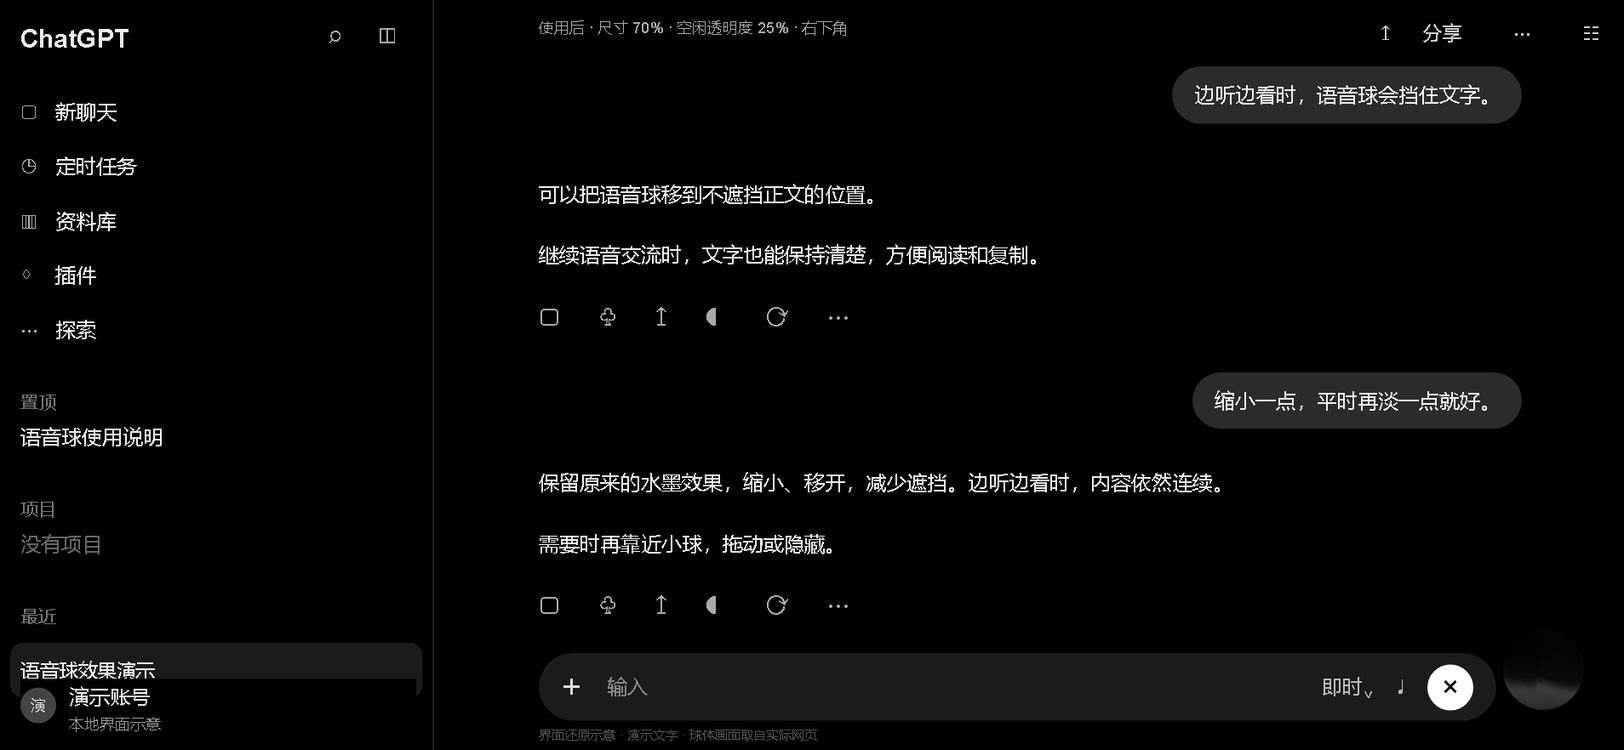
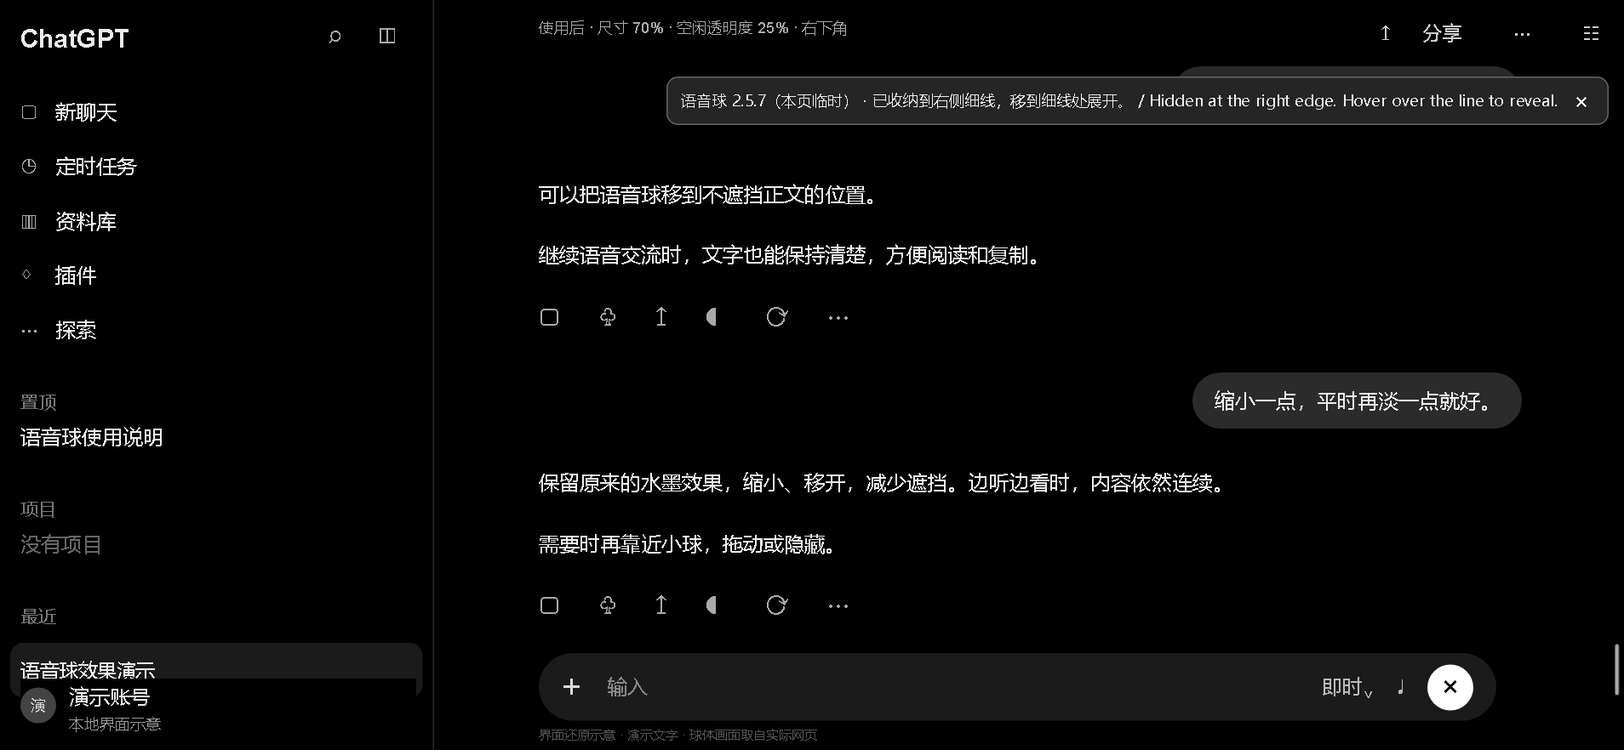
Release v2.5.7: edge docking, hover reveal and bilingual guidance
Replace the eye with a draggable monochrome ring. Automatically tuck the orb at the nearest side; reveal from the edge line and show Chinese/English directional guidance. Preserve scaling, opacity, position storage and shortcuts. Update README and demonstration screenshots. Validated using ScriptCat 1.4.0 in isolated Edge with simulated ChatGPT DOM.

Changed region(s): [[0.402, 0.0918, 0.9895, 0.1837], [0.9277, 0.8878, 0.9895, 0.949], [0.9895, 0.8571, 1.0, 0.9184]]

diff --git a/chatgpt-voice-orb.user.js b/chatgpt-voice-orb.user.js
@@ -1,7 +1,7 @@
 // ==UserScript==
 // @name         ChatGPT 简约语音球
 // @namespace    local.chatgpt.voice-helper
-// @version      2.5.3
+// @version      2.5.7
 // @description  简约语音球：缩小、右下角、空闲透明、拖动记忆、快捷键隐藏。
 // @match        https://chatgpt.com/*
 // @match        https://chat.openai.com/*
@@ -17,7 +17,7 @@
   'use strict';
 
   const SCALE = 0.7;
-  const VERSION = '2.5.3';
+  const VERSION = '2.5.7';
   const IDLE_OPACITY = 0.25;
   const MARGIN = 24;
   const SELECTOR = '[data-testid="avatar-overlay-voice-orb"]';
@@ -31,6 +31,7 @@
 
   let nx = fraction(read('voice-v2-x', 1));
   let ny = fraction(read('voice-v2-y', 1));
+  let dockTimer=0, docked=false;
   let hidden = false, hovered = false, dragging = false;
   let target = null, original = new Map();
   let tx = 0, ty = 0, factorX = 1, factorY = 1, frame = 0;
@@ -54,15 +55,42 @@
     b.style.cssText = 'appearance:none;border:1px solid #8886;border-radius:7px;background:#252525;color:white;padding:5px 8px;font:12px sans-serif;cursor:pointer;line-height:18px;';
     panel.appendChild(b); return b;
   }
-  const grip = button('⠿', '拖动语音球；位置自动保存');
+  const grip = document.createElement('div');
+  grip.title = '按住球体拖动；位置自动保存';
+  grip.style.cssText = 'position:fixed;z-index:2147483601;display:none;border-radius:50%;clip-path:ellipse(50% 50% at 50% 50%);background:transparent;user-select:none;touch-action:none;cursor:grab;';
+  document.body.appendChild(grip);
   grip.setAttribute('data-local-voice-grip', '');
   grip.style.cursor = 'grab'; grip.style.touchAction = 'none';
-  const toggle = button('隐藏球', 'Alt+Shift+V / Ctrl+Shift+H');
+  const toggle = button('', '隐藏语音球 · Alt+Shift+V / Ctrl+Shift+H');
+  toggle.setAttribute('data-local-voice-toggle', '');
+  toggle.style.cssText = 'appearance:none;display:grid;place-items:center;width:30px;height:30px;padding:0;border:1px solid #ffffff24;border-radius:50%;background:#252525e8;color:#eee;cursor:pointer;';
+  const svgNS = 'http://www.w3.org/2000/svg';
+  const eye = document.createElementNS(svgNS, 'svg');
+  eye.setAttribute('viewBox','0 0 24 24');eye.setAttribute('width','17');eye.setAttribute('height','17');eye.setAttribute('fill','none');eye.setAttribute('stroke','currentColor');eye.setAttribute('stroke-width','1.6');eye.setAttribute('stroke-linecap','round');eye.setAttribute('stroke-linejoin','round');eye.setAttribute('aria-hidden','true');
+  for(const d of ['M19 12a7 7 0 1 1-14 0 7 7 0 0 1 14 0']){const p=document.createElementNS(svgNS,'path');p.setAttribute('d',d);eye.appendChild(p);}
+  const slash=document.createElementNS(svgNS,'path');slash.setAttribute('d','M9 12h6');eye.appendChild(slash);toggle.appendChild(eye);
   document.body.appendChild(panel);
+  const edge=document.createElement('button');
+  edge.type='button';edge.setAttribute('data-local-voice-edge','');
+  edge.style.cssText='position:fixed;z-index:2147483647;display:none;width:12px;height:88px;padding:0;border:0;background:transparent;cursor:pointer;touch-action:none;';
+  const rail=document.createElement('span');rail.style.cssText='display:block;width:3px;height:40px;margin:auto;border-radius:3px;background:#aaa;box-shadow:0 0 2px #0008;';edge.appendChild(rail);document.body.appendChild(edge);
+  function syncEdge(){
+    if(!target||!hidden){edge.style.display='none';return;}
+    const r=target.getBoundingClientRect();edge.style.display='block';edge.style.left=nx<.5?'0px':'auto';edge.style.right=nx<.5?'auto':'0px';edge.style.top=clamp(r.top+r.height/2-44,0,Math.max(0,innerHeight-88))+'px';
+    edge.setAttribute('aria-label',nx<.5?'语音球在左侧：悬停或点击展开 / Orb on left: hover or click to reveal':'语音球在右侧：悬停或点击展开 / Orb on right: hover or click to reveal');edge.title=edge.getAttribute('aria-label');
+  }
+  function revealDock(){if(!target||!hidden)return;clearTimeout(dockTimer);hidden=false;hovered=true;appearance();place();showToolbar();scheduleDock();}
+  function scheduleDock(delay=1100){clearTimeout(dockTimer);dockTimer=setTimeout(()=>{dockTimer=0;if(!target||dragging||panel.querySelector(':focus-visible'))return;if(hovered||toolbarHover){scheduleDock();return;}dockOrb();},delay);}
+  function dockOrb(){
+    if(!target||dragging)return;clearTimeout(dockTimer);docked=true;hidden=true;hovered=false;toolbarHover=false;nx=nx<.5?0:1;save('voice-v2-x',nx);place();appearance();
+    statusDismissed=false;statusBadge.style.display='flex';setStatus(nx<.5?'已收纳到左侧细线，移到细线处展开。 / Hidden at the left edge. Hover over the line to reveal.':'已收纳到右侧细线，移到细线处展开。 / Hidden at the right edge. Hover over the line to reveal.');clearTimeout(statusTimer);statusTimer=setTimeout(()=>{statusBadge.style.display='none'},6500);
+  }
+  edge.addEventListener('pointerenter',revealDock);edge.addEventListener('click',revealDock);edge.addEventListener('focus',revealDock);
+
 
   const statusBadge = document.createElement('div');
   statusBadge.setAttribute('data-local-voice-status', VERSION);
-  statusBadge.style.cssText = 'position:fixed;right:12px;top:60px;z-index:2147483647;display:flex;align-items:center;gap:8px;padding:7px 10px;border:1px solid #718096;border-radius:9px;background:#202a36;color:#eef4fa;font:12px/1.5 system-ui;box-shadow:0 2px 10px #0002;';
+  statusBadge.style.cssText = 'position:fixed;right:12px;top:60px;z-index:2147483647;display:flex;align-items:center;gap:8px;padding:7px 10px;border:1px solid #666;border-radius:9px;background:#252525;color:#eee;font:12px/1.5 system-ui;box-shadow:0 2px 10px #0002;';
   const statusText = document.createElement('span');
   statusText.setAttribute('role','status');
   const statusClose = document.createElement('button');
@@ -94,16 +122,26 @@
       }
       target.removeAttribute(MARK);
     }
+    clearTimeout(dockTimer);edge.style.display='none';dragging=false;grip.style.display='none';grip.style.cursor='grab';
     target = null; original = new Map(); panel.style.display = 'none';
   }
   function appearance() {
     if (!target) return;
     own('opacity', String(hidden ? 0 : hovered || dragging ? 1 : IDLE_OPACITY));
-    toggle.textContent = hidden ? '显示球' : '隐藏球';
-    grip.style.display=hidden?'none':'';
+    toggle.setAttribute('aria-label',hidden?'显示语音球':'隐藏语音球');
+    toggle.title=(hidden?'点击显示':'点击隐藏')+' · 拖动圆环移动位置 · Alt+Shift+V / Ctrl+Shift+H';
+    slash.style.display=hidden?'none':'';
+    syncGrip();syncEdge();panel.style.display=hidden?'none':'flex';
 
   }
+  function syncGrip() {
+    if(!target?.isConnected||hidden||!target.getClientRects().length||getComputedStyle(target).visibility==='hidden'||target.closest('[hidden]')){grip.style.display='none';return;}
+    const r=target.getBoundingClientRect();
+    grip.style.display=r.width&&r.height?'block':'none';
+    grip.style.left=r.left+'px';grip.style.top=r.top+'px';grip.style.width=r.width+'px';grip.style.height=r.height+'px';
+  }
   function movePanel(rect) {
+    syncGrip();syncEdge();
     const width = panel.offsetWidth || 110, height = panel.offsetHeight || 30;
     panel.style.left = clamp(rect.right - width, 6, innerWidth - width - 6) + 'px';
     panel.style.top = clamp(rect.top - height - 8, 6, innerHeight - height - 6) + 'px';
@@ -111,7 +149,7 @@
   function place() {
     if (!target?.isConnected) return;
     const rect = target.getBoundingClientRect();
-    if (!rect.width || !rect.height) { panel.style.display = 'none'; return; }
+    if (!rect.width || !rect.height) { panel.style.display = 'none';grip.style.display='none'; return; }
     const availableX = Math.max(0, innerWidth - rect.width - 2 * MARGIN);
     const availableY = Math.max(0, innerHeight - rect.height - 2 * MARGIN);
     const x = Math.min(MARGIN, Math.max(0, innerWidth - rect.width)) + nx * availableX;
@@ -122,7 +160,7 @@
       own('translate', `${tx}px ${ty}px`);
     }
     const finalRect = target.getBoundingClientRect();
-    panel.style.display = 'flex'; movePanel(finalRect);
+    panel.style.display = hidden?'none':'flex'; movePanel(finalRect);
 
   }
   function calibrate() {
@@ -141,7 +179,7 @@
     own('left', '0px'); own('top', '0px'); own('right', 'auto'); own('bottom', 'auto');
     own('scale', String(SCALE)); own('z-index', '2147483600');
     for (const side of ['top', 'right', 'bottom', 'left']) own('margin-' + side, '0px');
-    calibrate(); appearance(); place();showToolbar();hideToolbarLater();
+    calibrate(); appearance(); place();showToolbar();hideToolbarLater();docked=true;scheduleDock(3000);
   }
   function scan() {
     if(document.hidden)return;
@@ -153,10 +191,10 @@
         const expectedY=Math.min(MARGIN,Math.max(0,innerHeight-r.height))+ny*Math.max(0,innerHeight-r.height-2*MARGIN);
         if(Math.abs(r.left-expectedX)>1 || Math.abs(r.top-expectedY)>1){calibrate();place();r=target.getBoundingClientRect();}
       }
-      panel.style.display = visible ? 'flex' : 'none';
-      if(visible)movePanel(r);
+      panel.style.display = visible&&!hidden ? 'flex' : 'none';if(!visible)edge.style.display='none';
+      if(visible)movePanel(r);else grip.style.display='none';
 
-      setStatus(visible ? (hidden ? '已隐藏' : '已连接语音球') : '等待语音球显示');
+      if(!hidden)setStatus(visible ? (hidden ? '已隐藏' : '已连接语音球') : '等待语音球显示');
       return;
     }
     if (target) release();
@@ -167,24 +205,30 @@
     if(target){setStatus('已连接语音球');if(!statusDismissed){clearTimeout(statusTimer);statusTimer=setTimeout(()=>{statusBadge.style.display='none'},6000)}}
     else setStatus('已加载，等待可识别的语音球');
   }
-  function toggleHidden() { scan(); hidden = !hidden; appearance();showToolbar();if(!hidden)hideToolbarLater(); }
-  toggle.addEventListener('click', toggleHidden);
+  function toggleHidden() { if(dragging)return;scan();if(hidden)revealDock();else dockOrb(); }
+  let controlMoved=false,dragSurface=null;
+  toggle.style.touchAction='none';toggle.style.cursor='grab';
+  toggle.addEventListener('click', e=>{e.preventDefault();e.stopPropagation();if(controlMoved){controlMoved=false;return;}toggleHidden();});
+  toggle.addEventListener('pointerdown',beginDrag);toggle.addEventListener('pointermove',moveDrag);
+  toggle.addEventListener('pointerup',endDrag);toggle.addEventListener('pointercancel',endDrag);toggle.addEventListener('lostpointercapture',endDrag);
   let startX, startY, startNX, startNY;
   function beginDrag(e) {
-    if (e.button !== 0 || !target) return;
-    e.preventDefault(); dragging = true; startX = e.clientX; startY = e.clientY; startNX = nx; startNY = ny;
-    showToolbar();
-    grip.setPointerCapture(e.pointerId); appearance();
+    if (e.button !== 0 || !e.isPrimary || !target || (hidden && e.currentTarget!==toggle) || dragging) return;
+    e.preventDefault();e.stopPropagation();dragSurface=e.currentTarget;controlMoved=false;dragSurface.style.cursor='grabbing'; dragging = true; startX = e.clientX; startY = e.clientY; startNX = nx; startNY = ny;
+    clearTimeout(dockTimer);showToolbar();
+    dragSurface.setPointerCapture(e.pointerId); appearance();
   }
   grip.addEventListener('pointerdown', beginDrag);
   function moveDrag(e) {
     if (!dragging || !target) return;
+    if(dragSurface===toggle&&!controlMoved){if(Math.hypot(e.clientX-startX,e.clientY-startY)<4)return;controlMoved=true;}
     const r = target.getBoundingClientRect();
     const rangeX = Math.max(1, innerWidth - r.width - 2 * MARGIN), rangeY = Math.max(1, innerHeight - r.height - 2 * MARGIN);
     nx = clamp(startNX + (e.clientX - startX) / rangeX, 0, 1); ny = clamp(startNY + (e.clientY - startY) / rangeY, 0, 1); place();
   }
   grip.addEventListener('pointermove', moveDrag);
-  function endDrag() { if (!dragging) return; dragging = false; save('voice-v2-x', nx); save('voice-v2-y', ny); appearance();hideToolbarLater(); }
+  grip.addEventListener('click',e=>{e.preventDefault();e.stopPropagation();});
+  function endDrag() { if (!dragging) return; dragging = false;grip.style.cursor='grab';toggle.style.cursor='grab';dragSurface=null;hovered=false;toolbarHover=false; save('voice-v2-x', nx); save('voice-v2-y', ny); appearance();hideToolbarLater();if(docked)scheduleDock(); }
   grip.addEventListener('pointerup', endDrag); grip.addEventListener('pointercancel', endDrag); grip.addEventListener('lostpointercapture', endDrag);
   function onPointerMove(e) {
     lastPointer={x:e.clientX,y:e.clientY};if(pointerFrame)return;
@@ -195,6 +239,7 @@
       const next=inside(r,0),near=inside(r,24)||inside(p,8);
       if(near){toolbarHover=true;showToolbar()}else if(toolbarHover){toolbarHover=false;hideToolbarLater()}
       if(next!==hovered){hovered=next;appearance()}
+      if(near){clearTimeout(dockTimer);dockTimer=0;}else if(docked&&!dockTimer)scheduleDock();
     });
   }
   function onKey(e) {
@@ -222,7 +267,7 @@
     document.removeEventListener('visibilitychange',resumeScan);
     try { if(statusMenu!==undefined)GM_unregisterMenuCommand(statusMenu); } catch {}
     window.removeEventListener('keydown', onKey, true); window.removeEventListener('pointermove', onPointerMove); window.removeEventListener('resize', onResize);
-    release(); panel.remove(); css.remove();
+    release();edge.remove();grip.remove(); panel.remove(); css.remove();
 
   }, { once: true });
 })();

diff --git a/README.md b/README.md
@@ -1,158 +1,73 @@
 # ChatGPT 简约语音球 · Minimal Voice Orb
 
-**ChatGPT 网页语音球挡字？缩小、拖动、自动变淡或快捷键隐藏，边聊边看更方便。**
-*A lightweight Tampermonkey script that moves, shrinks, fades, or hides the ChatGPT voice orb so it stops covering your text.*
+**ChatGPT 网页语音球挡字？缩小、直接拖动球体、自动变淡，自动贴边收纳，鼠标移到边缘即可展开。**
 
-[**安装 / 下载脚本**](https://raw.githubusercontent.com/00007-ym/chatgpt-voice-orb/refs/heads/main/chatgpt-voice-orb.user.js) · [English](#english) · [安装步骤](#安装) · [使用说明](#使用)
+[**安装 / 下载完整脚本**](https://raw.githubusercontent.com/00007-ym/chatgpt-voice-orb/refs/heads/main/chatgpt-voice-orb.user.js) · [English](#english)
 
-[**图文教程：ChatGPT 网页端语音小球挡住文字怎么办？**](https://chatgpt-voice-orb-guide.wjn04182.chatgpt.site/)
+## 2.5.7 更新
+
+- 直接按住球体拖动，移除独立拖动按钮，位置仍会自动记忆。
+- 去掉眼睛，使用黑白细线圆环；拖动圆环也能移动，轻点即可收纳，没有 Emoji。
+- 启动约 3 秒后收纳到最近的左／右侧边缘，保留细线。悬停或点击细线展开，鼠标离开约 1.1 秒后收回；中英文提示收纳位置。
+- 保留原球外观、70% 尺寸、25% 空闲透明度，以及两组隐藏快捷键。
 
 ## 前后对比
 
-同一段文字、同一视角：原球保持 112 px；脚本开启后缩小到约 78 px，移到右下角，空闲透明度降为 25%。
-
-| 修改前 | 使用后（空闲） |
+| 修改前 | 使用后（贴边收纳） |
 | --- | --- |
-| ![修改前：原尺寸原位置，球体覆盖正文](./preview-before.png) | ![使用后：缩小并移到右下角，正文完整可见](./preview.png) |
+| ![修改前：原球覆盖正文](./preview-before.png) | ![使用后：小球收纳至边缘细线](./preview.png) |
 
-<details>
-<summary>查看鼠标靠近时的工具栏</summary>
+![2.5.7：直接拖动球体，边缘悬停展开，圆环可拖动](./preview-hover.png)
 
-![悬停：球体恢复清晰，可拖动或隐藏](./preview-hover.png)
-
-</details>
-
-> 界面按实际网页的黑底白字还原，聊天内容为演示文字。球体画面和原始尺寸、位置取自关闭脚本后的真实网页，使用后运行本仓库脚本。以上为界面还原示意，不含私人对话；不同窗口尺寸和网页版本的效果可能不同。
-
----
-
-## English
-
-### What it does
-
-This userscript keeps the ChatGPT web voice orb out of the way when it overlaps the conversation. It preserves the existing orb's appearance and adds a small toolbar and a temporary status badge. It does not replace the voice session, record audio, or send messages.
-
-### Installation
-
-[**One-click install**](https://raw.githubusercontent.com/00007-ym/chatgpt-voice-orb/refs/heads/main/chatgpt-voice-orb.user.js)
-
-1. Install [Tampermonkey](https://www.tampermonkey.net/) in your browser.
-2. Open the install link above. If no install page appears, open [`chatgpt-voice-orb.user.js`](./chatgpt-voice-orb.user.js) in this repository, copy the **full source** into a new Tampermonkey script, and save it.
-3. Make sure the script is enabled, refresh ChatGPT, then start voice mode.
-
-When updating, replace the old script instead of enabling two copies at once.
-
-### Features
-
-| Feature | Behavior |
-| --- | --- |
-| Size | Scales the orb to 70% of its original size |
-| Position | Moves it toward the bottom-right by default; remembers the position you drag it to |
-| Idle opacity | 25% while idle, full clarity on hover |
-| Drag | Hover near the orb, then drag the `⠿` grip |
-| Toolbar | Hides automatically about 1.5 seconds after the pointer leaves |
-| Hide / show | `Alt+Shift+V` or `Ctrl+Shift+H` |
-| After hiding | Click “显示球” (Chinese for “Show orb”), or press the shortcut again |
-
-Hiding sets the orb's opacity to 0. It does **not** end the call or turn off the microphone.
-
-### FAQ
-
-**The orb covers my text — how do I move it?**
-Hover near the orb until the small toolbar appears, then drag the `⠿` grip. The position is saved locally and stays after a refresh.
-
-**How do I hide it?**
-Press `Alt+Shift+V` or `Ctrl+Shift+H`, or click the hide button in the toolbar. The orb becomes transparent instead of ending voice.
-
-**Does hiding end the voice conversation or mute me?**
-No. The script only changes the orb's opacity; it never touches the voice session or the microphone.
-
-**How do I restore the default orb?**
-Disable or remove this script in Tampermonkey, then refresh the ChatGPT page. The orb returns to its original size and position.
-
-**Does it upload my data?**
-No. The script makes no network requests and does not read chat text or audio. The orb position is stored only in Tampermonkey's local storage; hidden/visible state resets after refreshing.
-
-**It installed but nothing happens.**
-Confirm Tampermonkey is enabled and has site access for ChatGPT, then refresh the page and start voice mode. The script needs the floating orb to be present.
-
-**Can I use it in Chrome?**
-The implementation uses standard DOM and userscript APIs, but it has only been tested in Edge. Please verify it yourself in Chrome.
-
-### Limitations and privacy
-
-- **Tested only in Microsoft Edge** on the real ChatGPT voice page, covering shrink, drag, shortcut hiding, and toolbar auto-hide. Chrome has not been tested separately.
-- It works only on interfaces that contain the floating voice orb (`data-testid="avatar-overlay-voice-orb"`). If ChatGPT changes its DOM, the script may need an update.
-- If more than one candidate orb is found, the script deliberately does not move anything.
-- Behavior can differ with window size and ChatGPT version.
-- This is an unofficial project and is not affiliated with OpenAI.
-
----
-
-## 它做什么
-
-- **保留原球外观**：沿用网页的水墨动态，不重新着色、不添加装饰。
-
-- **缩小到 70%**：语音球默认缩放到原尺寸的 70%，减少对正文的遮挡。
-- **空闲透明度 25%**：空闲时球体变淡，鼠标移上去恢复清晰。
-- **拖动并记忆位置**：抓住 `⠿` 可把球拖到任意位置，位置保存在本地，刷新后仍在原处。
-- **工具栏自动收起**：鼠标离开约 1.5 秒后，操作工具栏自动隐藏。
-- **快捷键隐藏 / 显示**：`Alt+Shift+V` 或 `Ctrl+Shift+H`。
-- **隐藏不结束语音**：隐藏只是把球体透明度设为 0，不会结束通话或关闭麦克风。
+图片为界面还原示意，使用演示文字。球体画面、原始尺寸与位置取自真实网页；使用后运行本仓库脚本，不含私人对话。实际效果随窗口和网页版本变化。
 
 ## 安装
 
-[**一键安装脚本**](https://raw.githubusercontent.com/00007-ym/chatgpt-voice-orb/refs/heads/main/chatgpt-voice-orb.user.js)
+1. 安装脚本猫或 Tampermonkey 用户脚本管理器。
+2. 打开上方安装链接；若未出现安装界面，在管理器中新建普通脚本，将完整源码粘贴进去并保存。
+3. 启用脚本，刷新 ChatGPT 网页，再开启语音模式。
 
-1. 在浏览器中安装 [Tampermonkey](https://www.tampermonkey.net/)。
-2. 点击上方安装链接。若没有弹出安装页，打开本仓库的 [`chatgpt-voice-orb.user.js`](./chatgpt-voice-orb.user.js)，将**完整源码**复制进 Tampermonkey 的新脚本编辑器并保存。
-3. 确认脚本已启用，刷新 ChatGPT，再开启语音模式。
-
-更新时请替换旧脚本内容，不要同时启用多份。
+**更新已有脚本时，全选替换旧代码，不要追加或复制 GitHub 差异页面；避免同时启用多个版本。** 混合新旧代码可能造成重复声明，导致整段脚本无法执行。
 
 ## 使用
 
-| 功能 | 行为 |
+| 功能 | 操作 |
 | --- | --- |
-| 默认尺寸 | 原尺寸的 70% |
-| 默认位置 | 右下角；拖动后使用记忆位置 |
-| 空闲透明度 | 25%，鼠标移到球上恢复清晰 |
-| 拖动 | 靠近球后抓住 `⠿` 拖动 |
-| 工具栏 | 鼠标离开约 1.5 秒后收起 |
-| 隐藏 / 显示 | `Alt+Shift+V` 或 `Ctrl+Shift+H` |
-| 隐藏后恢复 | 点击“显示球”，或再次按快捷键 |
+| 移动 | 按住球体或圆环拖动；收纳时吸附最近的左／右侧并记忆高度 |
+| 隐藏 | 鼠标离开自动收纳，或轻点圆环立即收纳 |
+| 恢复 | 鼠标移到左／右侧细线，或点击细线 |
+| 快捷键 | Alt+Shift+V 或 Ctrl+Shift+H |
+| 自动淡化 | 空闲透明度 25%，悬停或拖动时恢复清晰 |
+| 图标收起 | 球体显示时，鼠标离开约 1.5 秒后收起 |
+| 恢复网页原样 | 停用脚本，再刷新 ChatGPT |
 
-## 隐私与实现
-
-脚本只通过 `data-testid="avatar-overlay-voice-orb"` 定位网页中的悬浮语音球，不读取聊天正文，不采集或播放音频，不发送消息，也不主动发起网络请求。位置等状态仅存在 Tampermonkey 本地。页面在后台时会暂停扫描，回到前台后再低频检查。
-
-## 兼容性与限制
-
-已在 Microsoft Edge 的真实 ChatGPT 语音页面验证缩小、拖动、快捷键隐藏与工具栏自动收起；Chrome 尚未单独实测。脚本仅对网页中存在悬浮语音球的界面生效，ChatGPT 更新 DOM 后可能需要适配。这是非官方项目，与 OpenAI 无关联。
+隐藏球体不会结束通话或关闭麦克风。快捷键可能与系统或其他扩展冲突，可使用图标操作。直接拖动需要球体区域接收鼠标，因此球体可见时不能穿透它选择下方文字；可先移开或隐藏球体。
 
 ## 常见问题
 
 **语音球挡住文字，怎么移动？**
-鼠标靠近球，出现小工具栏后，按住 `⠿` 拖动即可。位置会自动保存在本地，刷新后仍在该处。
+直接按住球体拖到空白处即可，无需寻找拖动按钮。
 
-**怎么隐藏或重新显示语音球？**
-按 `Alt+Shift+V` 或 `Ctrl+Shift+H`，也可以点击工具栏上的“隐藏球 / 显示球”。隐藏只是让球体透明。
+**安装后没有反应？**
+开启语音后需要网页中存在悬浮球。脚本启动时右上角会出现版本状态，也可以在管理器菜单中重新显示状态。如果编辑器报重复声明，使用安装链接中的完整文件替换旧代码。
 
-**隐藏球会中断语音吗？**
-不会。隐藏不触碰语音会话或麦克风。
+**会读取聊天或上传数据吗？**
+脚本不读取聊天正文、不处理音频、不发送消息、不主动发起网络请求。仅保存位置；每次加载后都会自动收纳。
 
-**怎么恢复默认，让语音球回到原来的大小和位置？**
-在 Tampermonkey 中停用或删除本脚本，然后刷新 ChatGPT 页面。语音球会恢复网页原本的尺寸和位置，无需手动改回任何设置。
+## 验证与限制
 
-**会上传我的数据吗？**
-不会。脚本无网络请求，也不读取聊天内容。
+2.5.7 已通过脚本猫 1.4.0 的实际安装测试：在独立 Edge 配置与模拟 ChatGPT DOM 上验证了启动、缩放、贴边收纳与悬停展开、左右侧中英文引导、两组快捷键、圆环拖动、刷新后位置记忆、窗口缩放、清理还原及无页面异常。此测试不等于当前真实语音页面的完整验证。旧版本曾在真实 Edge 语音页面测试；Chrome 尚未单独实测。
 
-**装好后没有反应？**
-确认 Tampermonkey 已启用、已授予 ChatGPT 的站点访问权限，然后刷新页面并开启语音模式。
+通过稳定属性 data-testid="avatar-overlay-voice-orb" 定位，多个候选时不移动。ChatGPT 页面结构变化后可能需要更新。仅用于网页悬浮语音球，不适用于原生手机或桌面 App。非官方项目，与 OpenAI 无关联。
 
-**Chrome 能用吗？**
-实现上使用标准 DOM 与用户脚本 API，但只在 Edge 实测，Chrome 请自行验证。
+## English
 
-## 版本
+ChatGPT Minimal Voice Orb is a userscript that moves, shrinks, fades or hides the floating ChatGPT web voice orb when it covers text.
 
-当前版本 **2.5.3**。保持基础语音球整理功能，不包含额外装饰、用户球或消息发送。
+**Version 2.5.7:** the orb docks at the nearest left or right edge after about 3 seconds. A thin line marks its position. Hover over or click the line to reveal; move away to tuck it back after about 1.1 seconds. Bilingual guidance tells you which edge to use. Drag the orb or the monochrome ring to move it; click the ring to tuck it away. No eye icon or emoji. Alt+Shift+V and Ctrl+Shift+H also toggle visibility. Scale is 70%; idle opacity is 25%. Dock side and height are saved locally.
+
+Install ScriptCat or Tampermonkey, open the installation link above, enable the script, reload ChatGPT and start voice mode. When replacing an existing script, replace the entire source rather than appending code or copying a GitHub diff. Disable the script and reload to restore the original interface.
+
+Hiding does not end voice or mute the microphone. Visible orb dragging intercepts pointer input within the orb; move or hide it to select text underneath. The script does not read conversations, process audio, send messages or initiate network requests.
+
+Tested via a real ScriptCat 1.4.0 installation in an isolated Edge profile against simulated ChatGPT DOM. Current-version end-to-end testing on the live voice page and separate Chrome testing have not been completed. The script depends on the floating orb's DOM attribute and may need updates after website changes. Unofficial; not affiliated with OpenAI.
